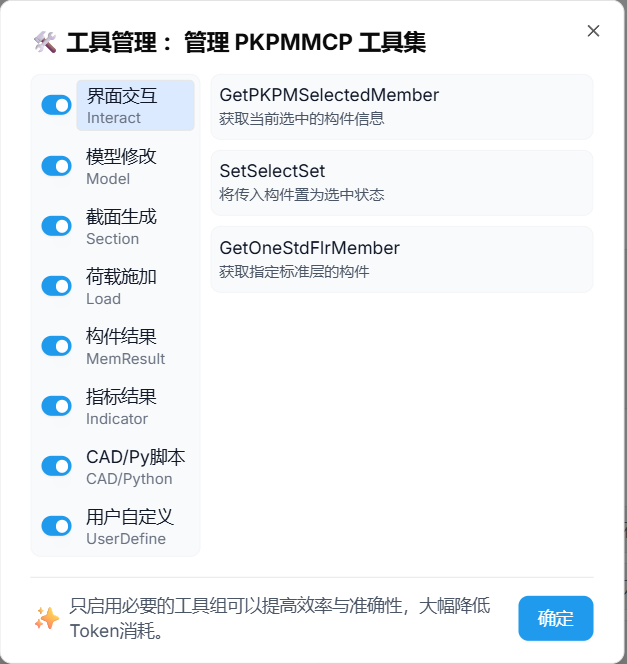
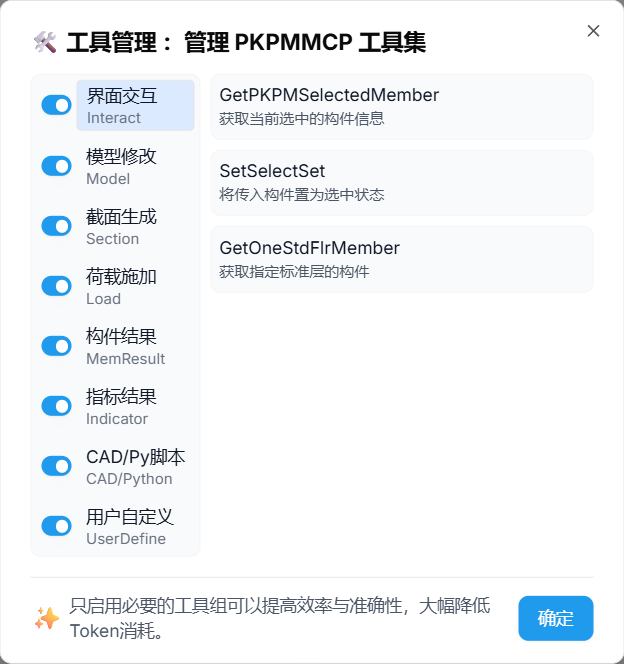
优化

diff --git a/README.md b/README.md
@@ -20,7 +20,7 @@ PKPM 结构设计智能体是一款基于大语言模型的设计辅助工具。
 ### 2.2 启动位置
 打开 PKPM 软件，在轴网菜单栏中点击 **⌈PKPM Agent 尝鲜版⌋**，即可打开Agent对话框，支持页面缩放。
 
-<img src="HelpImage/启动.png" alt="工具启动界面" width="600">
+<img src="HelpImage/启动.png" alt="工具启动界面" width="800">
 
 ### 2.3 大模型设置
 - 在 Agent 面板中点击 "管理" 按钮，从下拉菜单中选择要使用模型：
